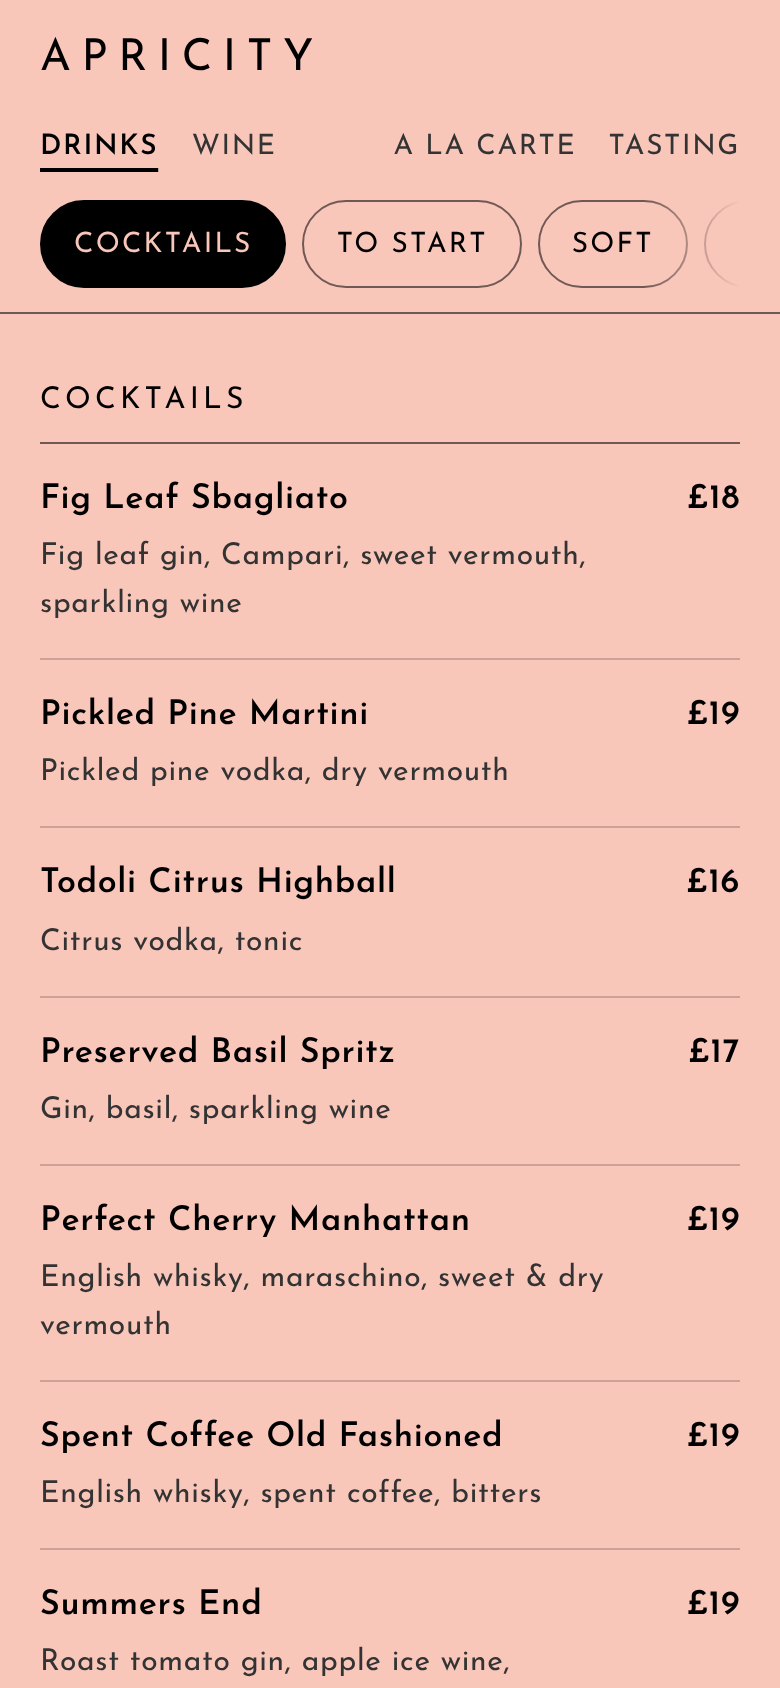
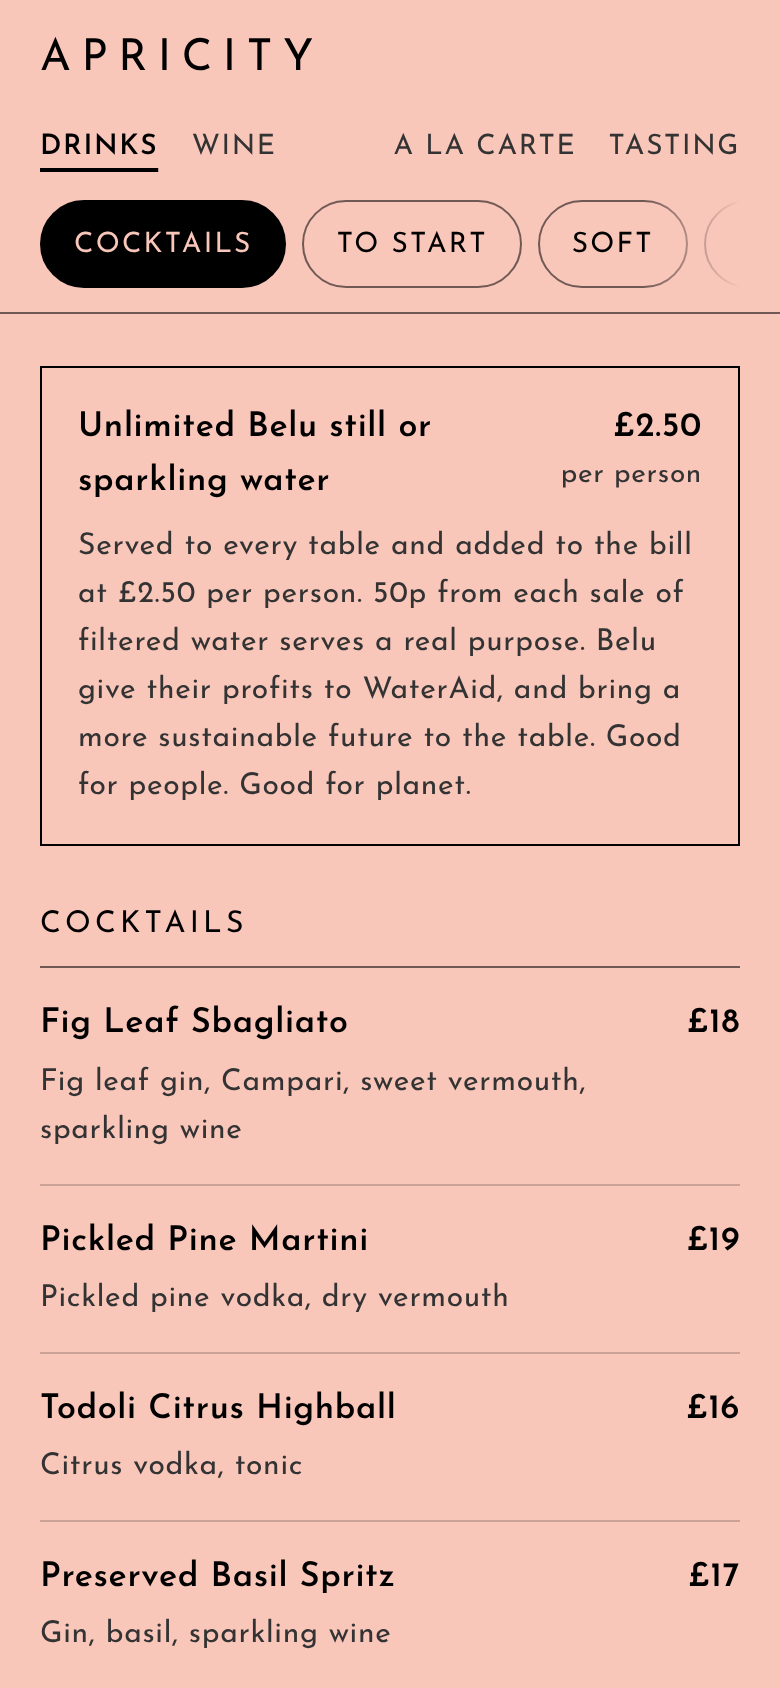
Drinks: Belu water as a notice at the top, charged to every table
Belu moves out of the Soft section into a boxed notice at the top of
the Drinks page (main menu and Chefs' Table): 'Served to every table
and added to the bill at £2.50 per person', followed by the website's
WaterAid wording. Rows with Section 'Note' in a menu sheet now show as
a notice at the top of that menu. Staff guide updated.

Claude-Session: https://claude.ai/code/session_01GSSoGmMPpnkgwBsug1j8uu

diff --git a/chefs-table.html b/chefs-table.html
@@ -143,6 +143,13 @@ main:focus { outline: none; }
 .codes { font-size: 0.875rem; color: var(--light); letter-spacing: 0.06em; white-space: nowrap; font-weight: 400; }
 .codes b { color: var(--ink); font-weight: 600; }
 .vin, .cuv { color: var(--mid); font-weight: 400; }
+.notice { margin-top: 22px; padding: 16px 18px; border: 1px solid var(--ink); display: grid; gap: 8px; }
+.notice p { margin: 0; }
+.notice-head { display: flex; justify-content: space-between; align-items: baseline; gap: 16px; }
+.notice .name { font-weight: 600; }
+.notice .price { font-weight: 600; white-space: nowrap; }
+.notice .price small { font-weight: 400; color: var(--mid); font-size: 0.875rem; }
+.notice .desc { color: var(--mid); font-size: 0.9375rem; }
 .empty { color: var(--mid); padding: 14px 0; margin: 0; font-size: 1rem; }
 
 /* chefs' table */
@@ -415,10 +422,17 @@ details dd { margin: 0; }
   window.addEventListener("resize", updateFade);
   // A plain menu tab (drinks, a la carte): Section | Item | Description | Allergens | Price | Price note | Section note | Show
   // Rows with no Section (or Course) in the sheet, like the bread, sit at the top with no heading and no button.
+  function notice(r) {
+    return '<div class="notice"><p class="notice-head"><span class="name">' + esc(r.item) + '</span><span class="price">' + esc(money(r.price || "")) +
+      (r["price note"] ? " <small>" + esc(r["price note"]) + "</small>" : "") + "</span></p>" + (r.description ? '<p class="desc">' + esc(r.description) + "</p>" : "") + "</div>";
+  }
   function untitled(rows) { return rows.length ? '<div class="section untitled">' + list(rows.map(rowItem)) + "</div>" : ""; }
   function simpleMenu(rows, food) {
     var groups = groupBy(rows, "section");
-    var html = groups.map(function (g) {
+    // Rows with Section "Note" (the table water) show first, as a boxed notice with no heading or button.
+    var notes = groups.filter(function (g) { return /^note$/i.test(g.title); });
+    groups = groups.filter(function (g) { return !/^note$/i.test(g.title); });
+    var html = notes.map(function (g) { return g.rows.map(notice).join(""); }).join("") + groups.map(function (g) {
       var shown = food ? plantFilter(g.rows) : g.rows;
       if (!g.title) return untitled(shown);
       var note = (g.rows.filter(function (r) { return r["section note"]; })[0] || {})["section note"];

diff --git a/index.html b/index.html
@@ -143,6 +143,13 @@ main:focus { outline: none; }
 .codes { font-size: 0.875rem; color: var(--light); letter-spacing: 0.06em; white-space: nowrap; font-weight: 400; }
 .codes b { color: var(--ink); font-weight: 600; }
 .vin, .cuv { color: var(--mid); font-weight: 400; }
+.notice { margin-top: 22px; padding: 16px 18px; border: 1px solid var(--ink); display: grid; gap: 8px; }
+.notice p { margin: 0; }
+.notice-head { display: flex; justify-content: space-between; align-items: baseline; gap: 16px; }
+.notice .name { font-weight: 600; }
+.notice .price { font-weight: 600; white-space: nowrap; }
+.notice .price small { font-weight: 400; color: var(--mid); font-size: 0.875rem; }
+.notice .desc { color: var(--mid); font-size: 0.9375rem; }
 .empty { color: var(--mid); padding: 14px 0; margin: 0; font-size: 1rem; }
 
 /* chefs' table */
@@ -415,10 +422,17 @@ details dd { margin: 0; }
   window.addEventListener("resize", updateFade);
   // A plain menu tab (drinks, a la carte): Section | Item | Description | Allergens | Price | Price note | Section note | Show
   // Rows with no Section (or Course) in the sheet, like the bread, sit at the top with no heading and no button.
+  function notice(r) {
+    return '<div class="notice"><p class="notice-head"><span class="name">' + esc(r.item) + '</span><span class="price">' + esc(money(r.price || "")) +
+      (r["price note"] ? " <small>" + esc(r["price note"]) + "</small>" : "") + "</span></p>" + (r.description ? '<p class="desc">' + esc(r.description) + "</p>" : "") + "</div>";
+  }
   function untitled(rows) { return rows.length ? '<div class="section untitled">' + list(rows.map(rowItem)) + "</div>" : ""; }
   function simpleMenu(rows, food) {
     var groups = groupBy(rows, "section");
-    var html = groups.map(function (g) {
+    // Rows with Section "Note" (the table water) show first, as a boxed notice with no heading or button.
+    var notes = groups.filter(function (g) { return /^note$/i.test(g.title); });
+    groups = groups.filter(function (g) { return !/^note$/i.test(g.title); });
+    var html = notes.map(function (g) { return g.rows.map(notice).join(""); }).join("") + groups.map(function (g) {
       var shown = food ? plantFilter(g.rows) : g.rows;
       if (!g.title) return untitled(shown);
       var note = (g.rows.filter(function (r) { return r["section note"]; })[0] || {})["section note"];

diff --git a/src/chefs-table.html b/src/chefs-table.html
@@ -135,6 +135,13 @@ main:focus { outline: none; }
 .codes { font-size: 0.875rem; color: var(--light); letter-spacing: 0.06em; white-space: nowrap; font-weight: 400; }
 .codes b { color: var(--ink); font-weight: 600; }
 .vin, .cuv { color: var(--mid); font-weight: 400; }
+.notice { margin-top: 22px; padding: 16px 18px; border: 1px solid var(--ink); display: grid; gap: 8px; }
+.notice p { margin: 0; }
+.notice-head { display: flex; justify-content: space-between; align-items: baseline; gap: 16px; }
+.notice .name { font-weight: 600; }
+.notice .price { font-weight: 600; white-space: nowrap; }
+.notice .price small { font-weight: 400; color: var(--mid); font-size: 0.875rem; }
+.notice .desc { color: var(--mid); font-size: 0.9375rem; }
 .empty { color: var(--mid); padding: 14px 0; margin: 0; font-size: 1rem; }
 
 /* chefs' table */
@@ -407,10 +414,17 @@ details dd { margin: 0; }
   window.addEventListener("resize", updateFade);
   // A plain menu tab (drinks, a la carte): Section | Item | Description | Allergens | Price | Price note | Section note | Show
   // Rows with no Section (or Course) in the sheet, like the bread, sit at the top with no heading and no button.
+  function notice(r) {
+    return '<div class="notice"><p class="notice-head"><span class="name">' + esc(r.item) + '</span><span class="price">' + esc(money(r.price || "")) +
+      (r["price note"] ? " <small>" + esc(r["price note"]) + "</small>" : "") + "</span></p>" + (r.description ? '<p class="desc">' + esc(r.description) + "</p>" : "") + "</div>";
+  }
   function untitled(rows) { return rows.length ? '<div class="section untitled">' + list(rows.map(rowItem)) + "</div>" : ""; }
   function simpleMenu(rows, food) {
     var groups = groupBy(rows, "section");
-    var html = groups.map(function (g) {
+    // Rows with Section "Note" (the table water) show first, as a boxed notice with no heading or button.
+    var notes = groups.filter(function (g) { return /^note$/i.test(g.title); });
+    groups = groups.filter(function (g) { return !/^note$/i.test(g.title); });
+    var html = notes.map(function (g) { return g.rows.map(notice).join(""); }).join("") + groups.map(function (g) {
       var shown = food ? plantFilter(g.rows) : g.rows;
       if (!g.title) return untitled(shown);
       var note = (g.rows.filter(function (r) { return r["section note"]; })[0] || {})["section note"];

diff --git a/src/menu.html b/src/menu.html
@@ -135,6 +135,13 @@ main:focus { outline: none; }
 .codes { font-size: 0.875rem; color: var(--light); letter-spacing: 0.06em; white-space: nowrap; font-weight: 400; }
 .codes b { color: var(--ink); font-weight: 600; }
 .vin, .cuv { color: var(--mid); font-weight: 400; }
+.notice { margin-top: 22px; padding: 16px 18px; border: 1px solid var(--ink); display: grid; gap: 8px; }
+.notice p { margin: 0; }
+.notice-head { display: flex; justify-content: space-between; align-items: baseline; gap: 16px; }
+.notice .name { font-weight: 600; }
+.notice .price { font-weight: 600; white-space: nowrap; }
+.notice .price small { font-weight: 400; color: var(--mid); font-size: 0.875rem; }
+.notice .desc { color: var(--mid); font-size: 0.9375rem; }
 .empty { color: var(--mid); padding: 14px 0; margin: 0; font-size: 1rem; }
 
 /* chefs' table */
@@ -407,10 +414,17 @@ details dd { margin: 0; }
   window.addEventListener("resize", updateFade);
   // A plain menu tab (drinks, a la carte): Section | Item | Description | Allergens | Price | Price note | Section note | Show
   // Rows with no Section (or Course) in the sheet, like the bread, sit at the top with no heading and no button.
+  function notice(r) {
+    return '<div class="notice"><p class="notice-head"><span class="name">' + esc(r.item) + '</span><span class="price">' + esc(money(r.price || "")) +
+      (r["price note"] ? " <small>" + esc(r["price note"]) + "</small>" : "") + "</span></p>" + (r.description ? '<p class="desc">' + esc(r.description) + "</p>" : "") + "</div>";
+  }
   function untitled(rows) { return rows.length ? '<div class="section untitled">' + list(rows.map(rowItem)) + "</div>" : ""; }
   function simpleMenu(rows, food) {
     var groups = groupBy(rows, "section");
-    var html = groups.map(function (g) {
+    // Rows with Section "Note" (the table water) show first, as a boxed notice with no heading or button.
+    var notes = groups.filter(function (g) { return /^note$/i.test(g.title); });
+    groups = groups.filter(function (g) { return !/^note$/i.test(g.title); });
+    var html = notes.map(function (g) { return g.rows.map(notice).join(""); }).join("") + groups.map(function (g) {
       var shown = food ? plantFilter(g.rows) : g.rows;
       if (!g.title) return untitled(shown);
       var note = (g.rows.filter(function (r) { return r["section note"]; })[0] || {})["section note"];

diff --git a/README.md b/README.md
@@ -95,6 +95,7 @@ flowchart LR
 1. **Scan → splash.** The existing QR codes still work, through a redirect from /menus. The splash has only the wordmark, five links (Drinks, Wine list, A la carte, Tasting menus, Kids' menu), one allergy line and the *Larger text* button. No photo and no intro text.
 2. **Switch menus in one tap.** Inside a menu, the header shows *Drinks · Wine | A la carte · Tasting*, so guests never have to go back to the splash. Each drinks list ends with "Food menu →" and each food list ends with "Drinks →".
 3. **Find the section.** Chips under the tabs jump to sections. The chip for the section on screen is highlighted as the guest scrolls.
+3a. **Table water.** The Drinks page opens with a boxed notice: unlimited Belu still or sparkling water is served to every table and added to the bill at £2.50 per person, with the website's WaterAid wording. It comes from a *Note* row in the Drinks sheet.
 4. **Wine.** By the glass first, then bottles by style. The section row has just two buttons, *By the glass* and *Bottles*. Tapping *Bottles* jumps to the bottles and opens it into a button per style (Sparkling, Champagne, White: Aromatic & Fresh…), which slide out one after another. It stays open while the guest is anywhere in the bottles, closes again back in *By the glass*, and turns off its animation for guests whose phone asks for reduced motion.
 5. **Food.** One short allergy line and a Plant-based filter chip (remembered on the phone). Allergen codes sit beside each dish, and the full key is folded away at the bottom.
 6. **Tasting.** Three buttons (5 courses £85, 7 courses £99, Kids £36) switch the course list and the drinks pairing prices (wine and non-alcoholic) together. The *Kids' menu* link on the splash opens this screen with Kids selected; pairings and sides are hidden for the kids' menu.

diff --git a/UPDATING-THE-MENU.md b/UPDATING-THE-MENU.md
@@ -27,6 +27,8 @@ The menu guests see after scanning the QR code is read from the **Apricity menus
 
 **Add a new section** (for example "Snacks"). Type the new name in the *Section* column. Sections appear in the order they first appear in the sheet.
 
+**A notice at the top of a menu** (like the Belu water on Drinks). Type `Note` in its *Section* column. It shows as a box at the top of that menu, whatever row it's on, with its *Item*, *Price*, *Price note* and *Description*.
+
 **Something at the top with no heading** (like the bread). Leave its *Section* (or, on the Tasting tab, *Course*) empty and put the row first. It shows above the first section, with no heading and no button.
 
 **Allergens.** Use the codes from the printed menu, separated by commas, for example `P-B, Mu`. Any dish with `P-B` appears when guests turn on the *Plant-based* filter.
